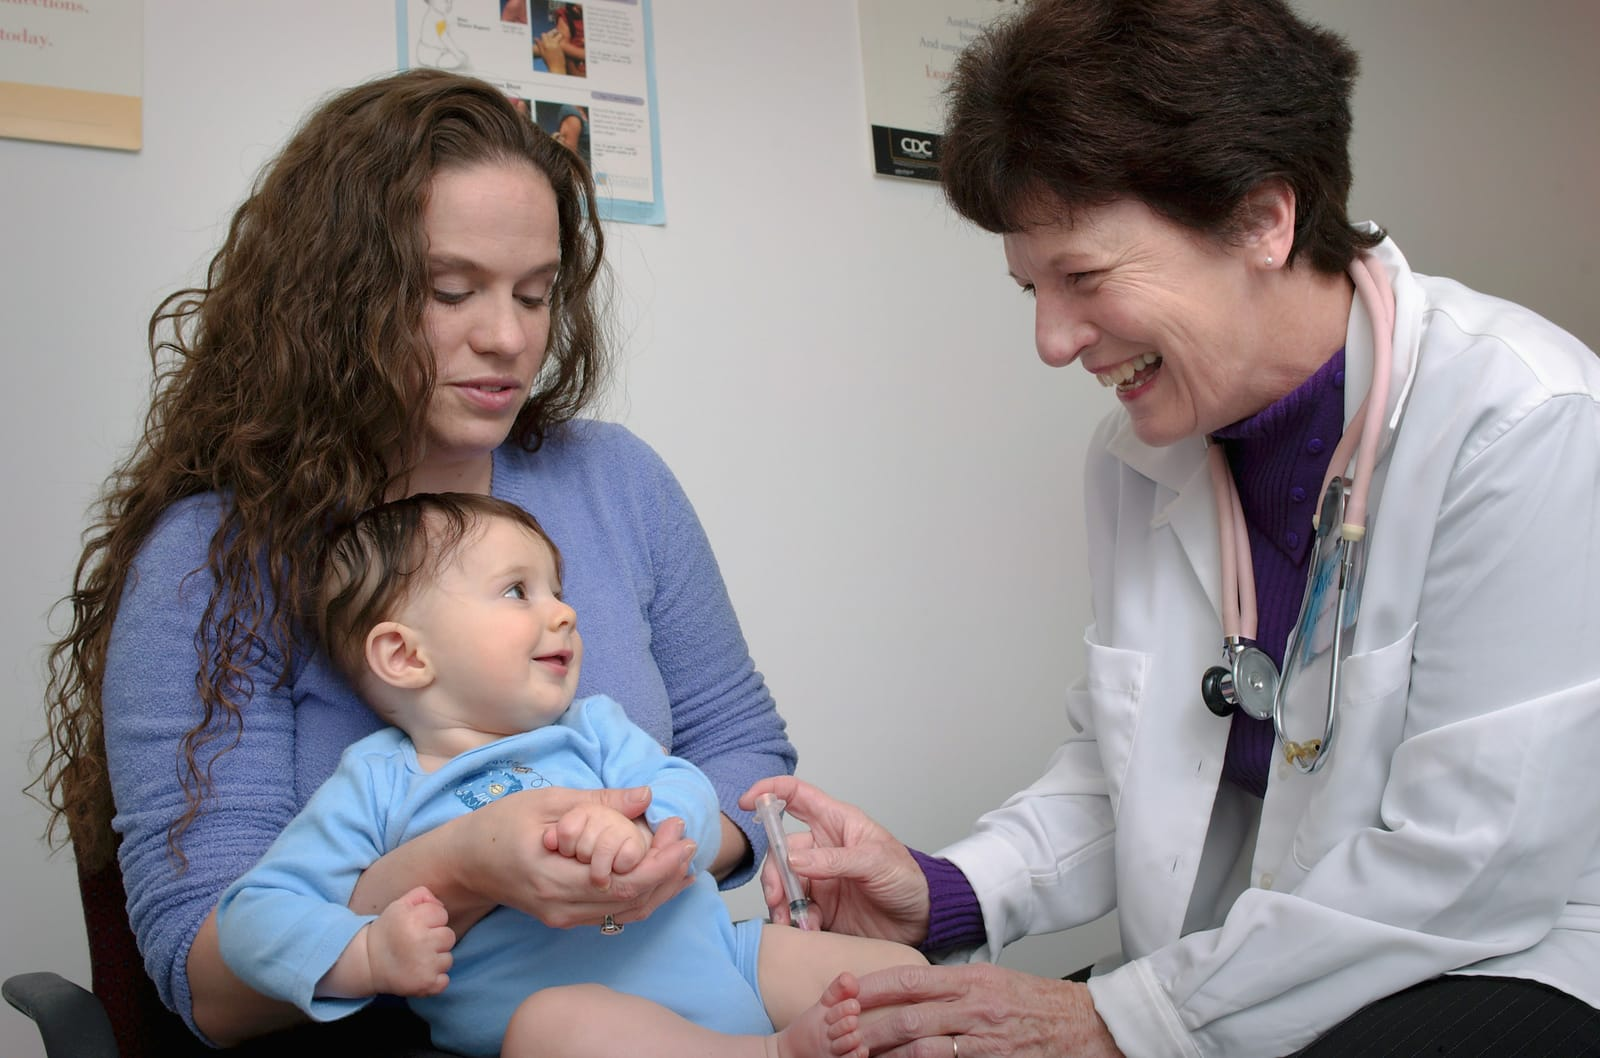
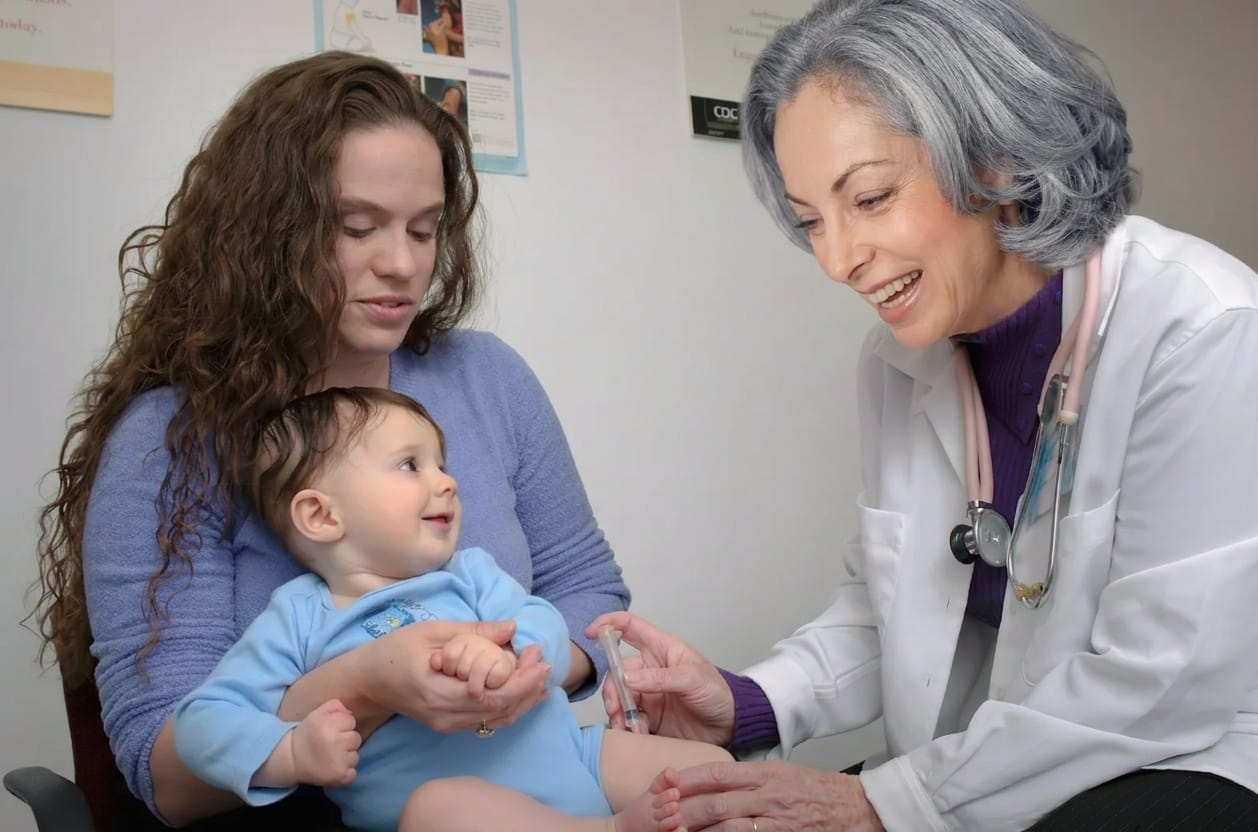
Add FotoFinder section, real clinic photos and new 404 page
- Homepage section on FotoFinder digital dermoscopy; FotoFinder named in Liečba and Cenník price lists
- Doctor with FotoFinder in Liečba hero; edited kids photo on Liečba
- Real clinic photos in O nás gallery instead of stock; unused stock removed
- 404 page with quick links to all sections and phone
- Dev router serves 404.html for unknown paths instead of the raw index.html
- Marquee star rendered as SVG so iOS does not show it as an emoji
- Announcement dialog fits its content, max 300px / 80vw

diff --git a/src/pages/Home/Home.tsx b/src/pages/Home/Home.tsx
@@ -84,6 +84,12 @@ function Quote() {
   );
 }
 
+const FOTOFINDER: [string, string][] = [
+  ['Zväčšený detail', 'Videodermatoskop medicam 1000 ukáže farby a štruktúry kože, ktoré voľným okom nevidno.'],
+  ['Porovnanie v čase', 'Snímky sa ukladajú, takže pri ďalšej kontrole lekárka presne vidí, čo sa zmenilo.'],
+  ['Bez bolesti', 'Kamera sa len priloží na kožu. Vyšetrenie nevyžaduje žiadnu prípravu.'],
+];
+
 export default function Home() {
   return (
     <Layout active="home" fixedNav footerOnDark>
@@ -126,7 +132,7 @@ export default function Home() {
                   </li>
                 ))}
               </ul>
-              <a href={ECAKAREN.profile} target="_blank" rel="noopener" className={s.cardCtaDark}>Prihlásiť sa na vyšetrenie →</a>
+              <a href={ECAKAREN.profile} target="_blank" rel="noopener" className={`${s.cardCtaDark} ${s.fotoCta}`}>Prihlásiť sa na vyšetrenie →</a>
               <a href={PATHS.liecba} className={s.cardLink}>Všetko o liečbe</a>
             </article>
             <article id="estetika" data-reveal="" data-d="120" className={`${s.card} ${s.cardAesthetic}`}>
@@ -166,6 +172,31 @@ export default function Home() {
           </div>
           <div data-reveal="" data-d="150" className={s.molesImgBox}>
             <Img name="znamienka" alt="Vyšetrenie znamienok na koži" width={1600} height={1067} sizes="(min-width: 900px) 50vw, 100vw" className={s.cover} />
+          </div>
+        </div>
+      </section>
+
+      <section className={s.foto} aria-labelledby="fotofinder">
+        <div className={s.fotoGrid}>
+          <div data-reveal="" className={s.fotoImgBox}>
+            <Img name="fotofinder" alt="MUDr. Iveta Kupcová s digitálnym dermatoskopom FotoFinder" width={1536} height={2048} sizes="(min-width: 900px) 45vw, 100vw" className={`${s.cover} ${s.fotoImg}`} />
+          </div>
+          <div className={s.fotoText}>
+            <div data-reveal="" className={s.eyebrow}>Digitálna dermatoskopia</div>
+            <h2 id="fotofinder" data-reveal="" data-d="100" className={s.fotoTitle}>Koža pod drobnohľadom s&nbsp;<em>FotoFinderom.</em></h2>
+            <p data-reveal="" data-d="200" className={s.fotoLead}>Sme jednou z troch ambulancií na Slovensku, ktoré vlastnia digitálny dermatoskop FotoFinder. Prístroj od nemeckého výrobcu sa používa na kožných klinikách po celom svete.</p>
+            <ul className={s.fotoList}>
+              {FOTOFINDER.map(([t, d], i) => (
+                <li key={t} data-reveal="" data-d={String(250 + i * 80)} className={s.fotoItem}>
+                  <span className={s.fotoItemTitle}>{t}</span>
+                  <span className={s.fotoItemText}>{d}</span>
+                </li>
+              ))}
+            </ul>
+            <div data-reveal="" data-d="500" className={s.fotoFoot}>
+              <div><div className={s.fotoPrice}>100 €</div><div className={s.fotoNote}>celotelové vyšetrenie digitálnym dermatoskopom</div></div>
+              <a href={ECAKAREN.profile} target="_blank" rel="noopener" className={`${s.cardCtaDark} ${s.fotoCta}`}>Prihlásiť sa na vyšetrenie →</a>
+            </div>
           </div>
         </div>
       </section>

diff --git a/src/pages/NotFound/NotFound.tsx b/src/pages/NotFound/NotFound.tsx
@@ -1,19 +1,45 @@
 import { Layout } from '../../components/Layout';
-import { PATHS } from '../../data/site';
+import { CONTACT, PATHS, type RouteKey } from '../../data/site';
 import s from './NotFound.module.less';
+
+const LINKS: [RouteKey, string, string][] = [
+  ['liecba', 'Liečba', 'Kožné ochorenia, znamienka, vlasy a nechty'],
+  ['estetika', 'Estetika a laser', 'Botulotoxín, kyselina hyalurónová, laser'],
+  ['objednanie', 'Objednanie', 'Ako sa dostať do poradia cez eČakáreň'],
+  ['cennik', 'Cenník', 'Ceny výkonov a zákrokov'],
+  ['onas', 'O nás', 'MUDr. Iveta Kupcová a ambulancia'],
+  ['kontakt', 'Kontakt', 'Adresa, ordinačné hodiny a mapa'],
+];
 
 export default function NotFound() {
   return (
     <Layout active="home">
       <section className={s.wrap}>
         <div className={s.inner}>
-          <h1 className={s.h1}>
-            <span className={s.maskLine}><span data-reveal="" data-mask="" data-d="80">4<em>0</em>4</span></span>
-          </h1>
-          <p className={s.text} data-reveal="" data-d="200">Stránku sme nenašli.</p>
-          <div className={s.actions} data-reveal="" data-d="300">
+          <div className={s.head}>
+            <p className={s.code} aria-hidden="true">
+              <span className={s.maskLine}><span data-reveal="" data-mask="" data-d="80">4<em>0</em>4</span></span>
+            </p>
+            <div className={s.headText}>
+              <h1 className={s.h1} data-reveal="" data-d="200">Túto stránku sme nenašli ani pod <em>dermatoskopom.</em></h1>
+              <p className={s.text} data-reveal="" data-d="280">Odkaz je zrejme neplatný alebo stránka zmenila adresu. Skúste niektorú z týchto:</p>
+            </div>
+          </div>
+
+          <ul className={s.links}>
+            {LINKS.map(([key, label, desc], i) => (
+              <li key={key} data-reveal="" data-d={String(320 + i * 60)}>
+                <a className={s.card} href={PATHS[key]}>
+                  <span className={s.cardLabel}>{label}<span className={s.arrow} aria-hidden="true">→</span></span>
+                  <span className={s.cardDesc}>{desc}</span>
+                </a>
+              </li>
+            ))}
+          </ul>
+
+          <div className={s.actions} data-reveal="" data-d="700">
             <a className={s.btn} href="/">Späť na úvod</a>
-            <a className={s.link} href={PATHS.kontakt}>Kontaktujte nás →</a>
+            <a className={s.link} href={`tel:${CONTACT.tel}`}>Zavolať {CONTACT.phone}</a>
           </div>
         </div>
       </section>

diff --git a/src/pages/NotFound/NotFound.module.less b/src/pages/NotFound/NotFound.module.less
@@ -6,13 +6,20 @@
   .container();
   display: flex;
   flex-direction: column;
-  align-items: flex-start;
-  gap: clamp(20px, 3vw, 32px);
+  gap: clamp(40px, 6vw, 72px);
 }
 
-.h1 {
+.head {
+  display: flex;
+  flex-wrap: wrap;
+  align-items: flex-end;
+  gap: clamp(16px, 4vw, 64px);
+}
+
+.code {
   .serif();
-  font-size: clamp(120px, 26vw, 360px);
+  flex: none;
+  font-size: clamp(120px, 24vw, 320px);
   line-height: .82;
   letter-spacing: -.045em;
   margin: 0;
@@ -27,12 +34,70 @@
   > span { display: block; }
 }
 
-.text {
+.headText { flex: 1 1 360px; min-width: 0; padding-bottom: clamp(8px, 2vw, 32px); }
+
+.h1 {
+  .serif();
+  font-size: clamp(34px, 4.2vw, 56px);
+  font-weight: 400;
+  line-height: 1.05;
+  letter-spacing: -.02em;
   margin: 0;
-  font-size: clamp(20px, 2.4vw, 28px);
-  line-height: 1.4;
-  color: @muted;
+  text-wrap: balance;
+  em { color: @terra; }
 }
+
+.text {
+  margin: 20px 0 0;
+  font-size: 18px;
+  line-height: 1.6;
+  color: @muted;
+  max-width: 520px;
+  text-wrap: pretty;
+}
+
+.links {
+  list-style: none;
+  margin: 0;
+  padding: 0;
+  display: grid;
+  grid-template-columns: repeat(auto-fill, minmax(min(100%, 340px), 1fr));
+  gap: 12px;
+}
+
+.card {
+  display: flex;
+  flex-direction: column;
+  gap: 6px;
+  height: 100%;
+  padding: 24px;
+  border-radius: 24px;
+  background: @surface;
+  border: 1px solid @line;
+  color: @ink;
+  transition: border-color .3s, transform .3s @ease, box-shadow .3s;
+  &:hover {
+    color: @ink;
+    border-color: @line-3;
+    transform: translateY(-2px);
+    box-shadow: 0 14px 30px -20px rgba(42, 33, 28, .35);
+    .arrow { transform: translateX(4px); color: @terra; }
+  }
+}
+
+.cardLabel {
+  .serif();
+  display: flex;
+  justify-content: space-between;
+  align-items: baseline;
+  gap: 12px;
+  font-size: 28px;
+  line-height: 1.1;
+}
+
+.arrow { font-family: inherit; font-size: 22px; color: @muted; transition: transform .3s @ease, color .3s; }
+
+.cardDesc { font-size: 15px; line-height: 1.5; color: @muted; }
 
 .actions {
   display: flex;
@@ -59,4 +124,7 @@
   &:hover { color: @terra; border-bottom-color: @terra; }
 }
 
-@media @{reduced} { .btn:hover { transform: none; } }
+@media @{reduced} {
+  .btn:hover, .card:hover { transform: none; }
+  .card, .arrow { transition: none; }
+}

diff --git a/src/pages/Home/Home.module.less b/src/pages/Home/Home.module.less
@@ -164,7 +164,7 @@
   color: @surface;
 }
 .marqueeItem { display: flex; align-items: center; gap: clamp(18px, 2.4vw, 32px); padding-right: clamp(18px, 2.4vw, 32px); }
-.marqueeStar { font-style: normal; font-size: .6em; opacity: .7; }
+.marqueeStar { flex: none; width: .5em; height: .5em; stroke: currentColor; stroke-width: 2.4; stroke-linecap: round; fill: none; opacity: .7; }
 
 @media @{reduced} {
   .heroFrame, .heroImgs { transition: none; }
@@ -303,6 +303,36 @@
 .molesNum { font-family: @serif; font-size: 44px; line-height: 1; }
 .molesNote { font-size: 14px; color: @cream-a; margin-top: 6px; }
 .molesImgBox { height: clamp(360px, 44vw, 560px); border-radius: 28px; overflow: hidden; background: @dark-2; }
+
+// FotoFinder
+.foto { padding: clamp(72px, 10vw, 128px) 24px 0; }
+.fotoGrid {
+  .container();
+  display: grid;
+  grid-template-columns: repeat(auto-fit, minmax(min(100%, 400px), 1fr));
+  gap: clamp(40px, 6vw, 88px);
+  align-items: center;
+}
+.fotoImgBox { aspect-ratio: 4 / 5; max-height: 680px; border-radius: 28px; overflow: hidden; background: @sand; }
+.fotoImg { object-position: 40% 30%; }
+.fotoTitle {
+  .serif();
+  font-size: clamp(44px, 5.6vw, 80px);
+  line-height: 1;
+  letter-spacing: -.02em;
+  margin: 16px 0 0;
+  text-wrap: balance;
+  em { color: @terra; }
+}
+.fotoLead { font-size: 18px; line-height: 1.6; color: @muted; margin: 24px 0 0; max-width: 540px; text-wrap: pretty; }
+.fotoList { list-style: none; margin: 36px 0 0; padding: 0; display: flex; flex-direction: column; }
+.fotoItem { display: grid; gap: 4px; padding: 18px 0; border-top: 1px solid @line; &:last-child { border-bottom: 1px solid @line; } }
+.fotoItemTitle { font-weight: 600; font-size: 17px; }
+.fotoItemText { color: @muted; font-size: 15px; line-height: 1.55; }
+.fotoFoot { display: flex; flex-wrap: wrap; gap: 24px 40px; align-items: center; justify-content: space-between; margin-top: 36px; }
+.fotoPrice { font-family: @serif; font-size: 44px; line-height: 1; color: @terra-dark; }
+.fotoNote { font-size: 14px; color: @muted; margin-top: 6px; }
+.fotoCta { align-self: center; margin-top: 0; }
 
 // 05 Explainer
 .explainer { padding: clamp(72px, 10vw, 128px) 24px 64px; }

diff --git a/src/pages/ONas/ONas.tsx b/src/pages/ONas/ONas.tsx
@@ -21,10 +21,10 @@ const CAREER: [string, string][] = [
   ['od 1997', 'Súkromná kožná ambulancia LEADERM, s.r.o., Galanta'],
 ];
 
-const GALLERY: [string, string][] = [
-  ['interier', 'Ambulancia'],
-  ['konzultacia', 'Konzultácia v ordinácii'],
-  ['laser', 'Laserové pracovisko'],
+const GALLERY: [string, string, number, number, string][] = [
+  ['areal-zdravia', 'Vstup do Areálu zdravia v Galante', 2048, 1536, '50% 60%'],
+  ['ambulancia', 'Ambulancia LEADERM', 3024, 4032, '50% 62%'],
+  ['ambulancia-lekarka', 'MUDr. Iveta Kupcová v ambulancii', 1536, 2048, '72% 45%'],
 ];
 
 export default function ONas() {
@@ -96,9 +96,9 @@ export default function ONas() {
             <p className={s.clinicP} data-reveal="">Areál zdravia v Galante. Zmluvné poisťovne Dôvera, VšZP a Union. Prevádzkovateľ LEADERM, s.r.o.</p>
           </div>
           <ul className={s.gallery}>
-            {GALLERY.map(([name, alt], i) => (
+            {GALLERY.map(([name, alt, w, h, pos], i) => (
               <li key={name} className={s.galleryItem} data-reveal="" data-d={String(i * 80)}>
-                <Img name={name} alt={alt} width={1600} height={1067} sizes="(min-width: 900px) 33vw, 100vw" className={s.cover} />
+                <Img name={name} alt={alt} width={w} height={h} sizes="(min-width: 900px) 33vw, 100vw" className={s.cover} style={{ objectPosition: pos }} />
               </li>
             ))}
           </ul>

diff --git a/src/pages/Liecba/Liecba.tsx b/src/pages/Liecba/Liecba.tsx
@@ -14,7 +14,7 @@ const AREAS: [string, string, string, string[]][] = [
 
 const MOLES: [string, string, string, number][] = [
   ['Preventívne vyšetrenie melanocytových névov', '50 €', 'konvenčný dermatoskop', 0],
-  ['Celotelové vyšetrenie melanocytových névov', '100 €', 'digitálny dermatoskop', 40],
+  ['Celotelové vyšetrenie melanocytových névov', '100 €', 'digitálny dermatoskop FotoFinder', 40],
   ['Vyšetrenie névov pred odstránením z kozmetických dôvodov', '10 €', 'za 1 kus', 80],
   ['Laserové odstránenie znamienok, výrastkov, lézií a névov', 'od 50 €', 'prvý kus 50 €, každý ďalší pri tom istom sedení 30 €', 160],
   ['Odstránenie útvarov kože kryalizáciou alebo elektrokauterom', 'od 10 €', 'kryalizácia (tekutým dusíkom) aj elektrokauter od 10 €', 240],
@@ -44,7 +44,7 @@ export default function Liecba() {
             </div>
           </div>
           <div className={s.heroImg} data-reveal="" data-d="200">
-            <Img name="lupa" alt="Vyšetrenie pokožky" width={1200} height={1500} priority sizes="(min-width: 900px) 40vw, 100vw" className={s.cover} />
+            <Img name="fotofinder" alt="MUDr. Iveta Kupcová s digitálnym dermatoskopom FotoFinder" width={1536} height={2048} priority sizes="(min-width: 900px) 40vw, 100vw" className={s.cover} style={{ objectPosition: '40% 30%' }} />
           </div>
         </div>
       </section>

diff --git a/src/data/site.ts b/src/data/site.ts
@@ -79,7 +79,7 @@ export const PRICE_A: PriceRow[] = [
   ['Vyšetrenie pre komerčné poisťovne', '100 €'],
   ['Výpis zo zdravotnej dokumentácie na žiadosť pacienta', '20 €'],
   ['Preventívne vyšetrenie melanocytových névov (konvenčný dermatoskop)', '50 €'],
-  ['Celotelové vyšetrenie melanocytových névov (digitálny dermatoskop)', '100 €'],
+  ['Celotelové vyšetrenie melanocytových névov (digitálny dermatoskop FotoFinder)', '100 €'],
   ['Vyšetrenie melanocytových névov pred odstránením z kozmetických dôvodov', '10 € / ks'],
 ];
 

diff --git a/src/pages/Home/Hero.tsx b/src/pages/Home/Hero.tsx
@@ -39,7 +39,7 @@ function Marquee() {
       <div className={s.marqueeBand}>
         <div ref={ref} className={s.marquee}>
           {[...MARQUEE, ...MARQUEE].map((m, i) => (
-            <span key={i} className={s.marqueeItem}><span>{m}</span><span className={s.marqueeStar}>✳</span></span>
+            <span key={i} className={s.marqueeItem}><span>{m}</span><svg className={s.marqueeStar} viewBox="0 0 24 24" aria-hidden="true"><path d="M12 2v20M2 12h20M4.9 4.9l14.2 14.2M19.1 4.9 4.9 19.1" /></svg></span>
           ))}
         </div>
       </div>

diff --git a/src/components/Announcement/Announcement.module.less b/src/components/Announcement/Announcement.module.less
@@ -4,8 +4,8 @@
   border: 0;
   padding: 0;
   margin: auto;
-  width: calc(100% - 32px);
-  max-width: 520px;
+  width: fit-content;
+  max-width: min(300px, 80vw);
   max-height: calc(100dvh - 32px);
   background: transparent;
   color: @ink;
@@ -38,7 +38,7 @@
 .card {
   background: @surface;
   border-radius: 28px;
-  padding: clamp(24px, 4vw, 40px);
+  padding: clamp(24px, 4vw, 32px);
   box-shadow: 0 40px 80px rgba(42, 33, 28, .22);
   max-height: calc(100dvh - 32px);
   overflow: auto;

diff --git a/api/router-dev.php b/api/router-dev.php
@@ -16,4 +16,10 @@ foreach ([$rel, rtrim($rel, '/') . '/index.html'] as $candidate) {
         return true;
     }
 }
+if (is_file($dist . '/404.html')) {
+    http_response_code(404);
+    header('Content-Type: text/html; charset=utf-8');
+    readfile($dist . '/404.html');
+    return true;
+}
 return false;
